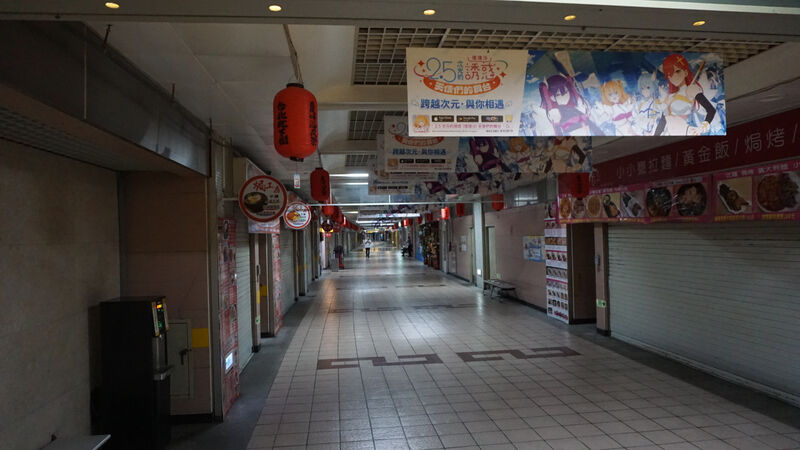
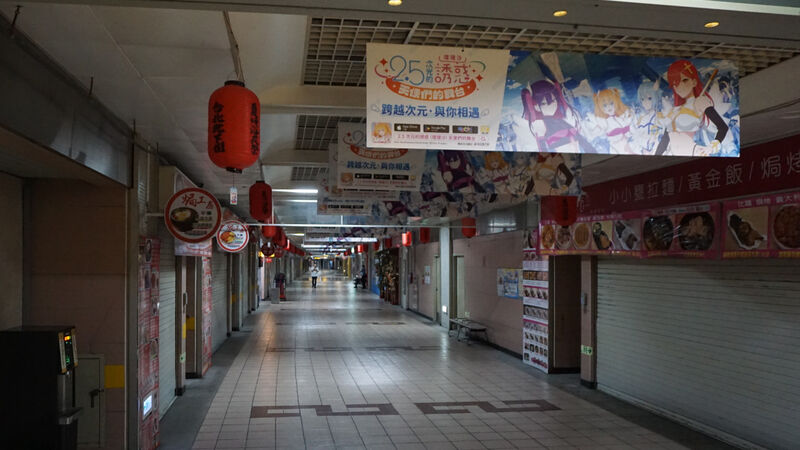
Update taiwan post with correct photos

diff --git a/_posts/2024-11-09-taiwan.md b/_posts/2024-11-09-taiwan.md
@@ -14,7 +14,7 @@ category: travel
 tags: [travel, taiwan, bikeless]
 # thumbnail image for post
 # TODO: Modify this one
-img: ":taiwan_temple.png"
+img: ":taiwan_temple.jpg"
 # disable comments on this page
 #comments_disable: true
 
@@ -23,7 +23,6 @@ date: 2024-11-09 21:00:00 +01:00
 
 published: true
 ---
-
 Hi BoBers,
 
 I was very lucky to find a flight across to Munich that was good for two reasons.
@@ -32,7 +31,7 @@ Firstly, it was cheap and secondly, I was able to get a 16 hour stopover in Taip
 My time there wasn't too eventful.
 I arrived at 5:30am, took the train into town and roamed around the very deserted main station in Taipei before heading to the Maokong gondola which takes you up to the scenic Zhinan temple which has great views of the city.
 Because I have an excellent sense of misdirection, I managed to get lost walking a beautiful but overgrown footpath between two of the main gondola stops.
-The first random act of kindness of this trip came earlier than expected on this trip when a lovely man gestured the way to the next gondola stop, which was a five minute walk along a road before taking a turn and heading up hill.
+The first random act of kindness of this trip came earlier than expected when a lovely man showed me the way to the next gondola stop on the map, which was a five minute walk along a busy road before taking a turn and heading up hill.
 As I was walking I saw him ride past me on his scooter and as I got to the intersection I saw him there stopping traffic to let me pass and show me the way.
 So kind!
 
@@ -46,9 +45,16 @@ I guess everybody's rituals can look bizarre from the outside.
 As the sun set I was drenched with sweat from the temperature and humidity and despite my best intentions of fully exploring the city, I went back to the air-conditioned sanctuary of the Taipei airport a few hours early and got ready for my flight to Munich and the beginning of the European leg of my journey.
 
 Some (somewhat artsy) photos:
-![Image](:taiwan_buddha.jpg)
-![Image](:taiwan_city_mix.jpg)
-![Image](:taiwan_empty.jpg)
-![Image](:taiwan_temple.jpg)
-![Image](:taiwan_overgrown.jpg)
-![Image](:taiwan_mopeds.jpg)
+![](:taiwan_empty.jpg)
+
+![](:taiwan_path.jpg)
+
+![](:taiwan_temple_framed.jpg)
+
+![](:taiwan_temple.jpg)
+
+![](:taiwan_buddha.jpg)
+
+![](:taiwan_city_mix.jpg)
+
+![](:taiwan_mopeds.jpg)
